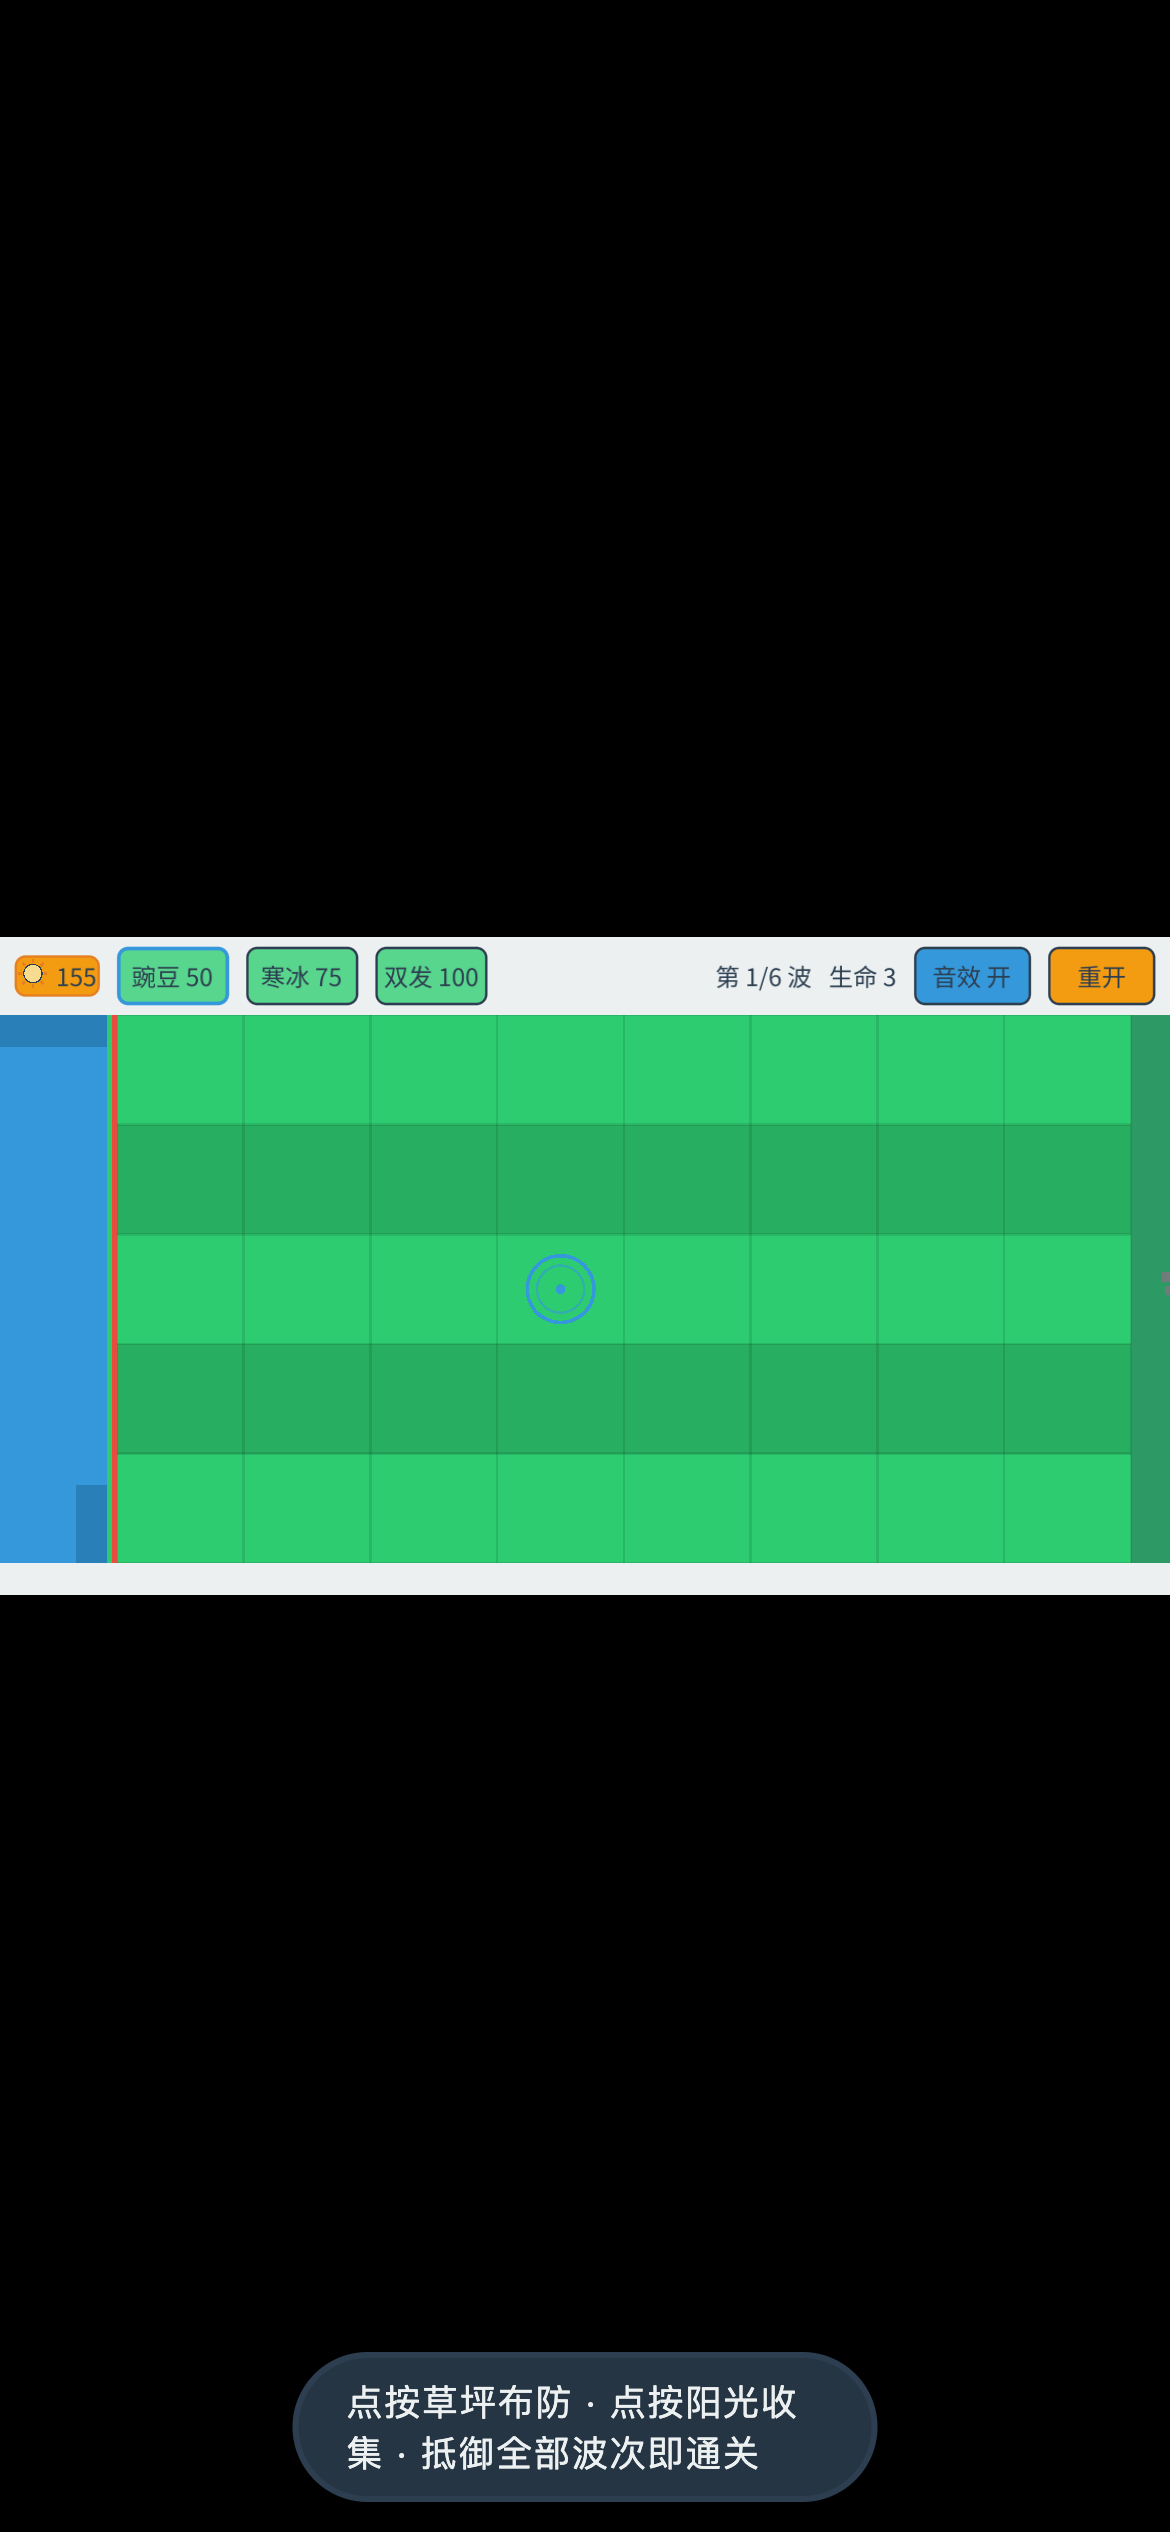
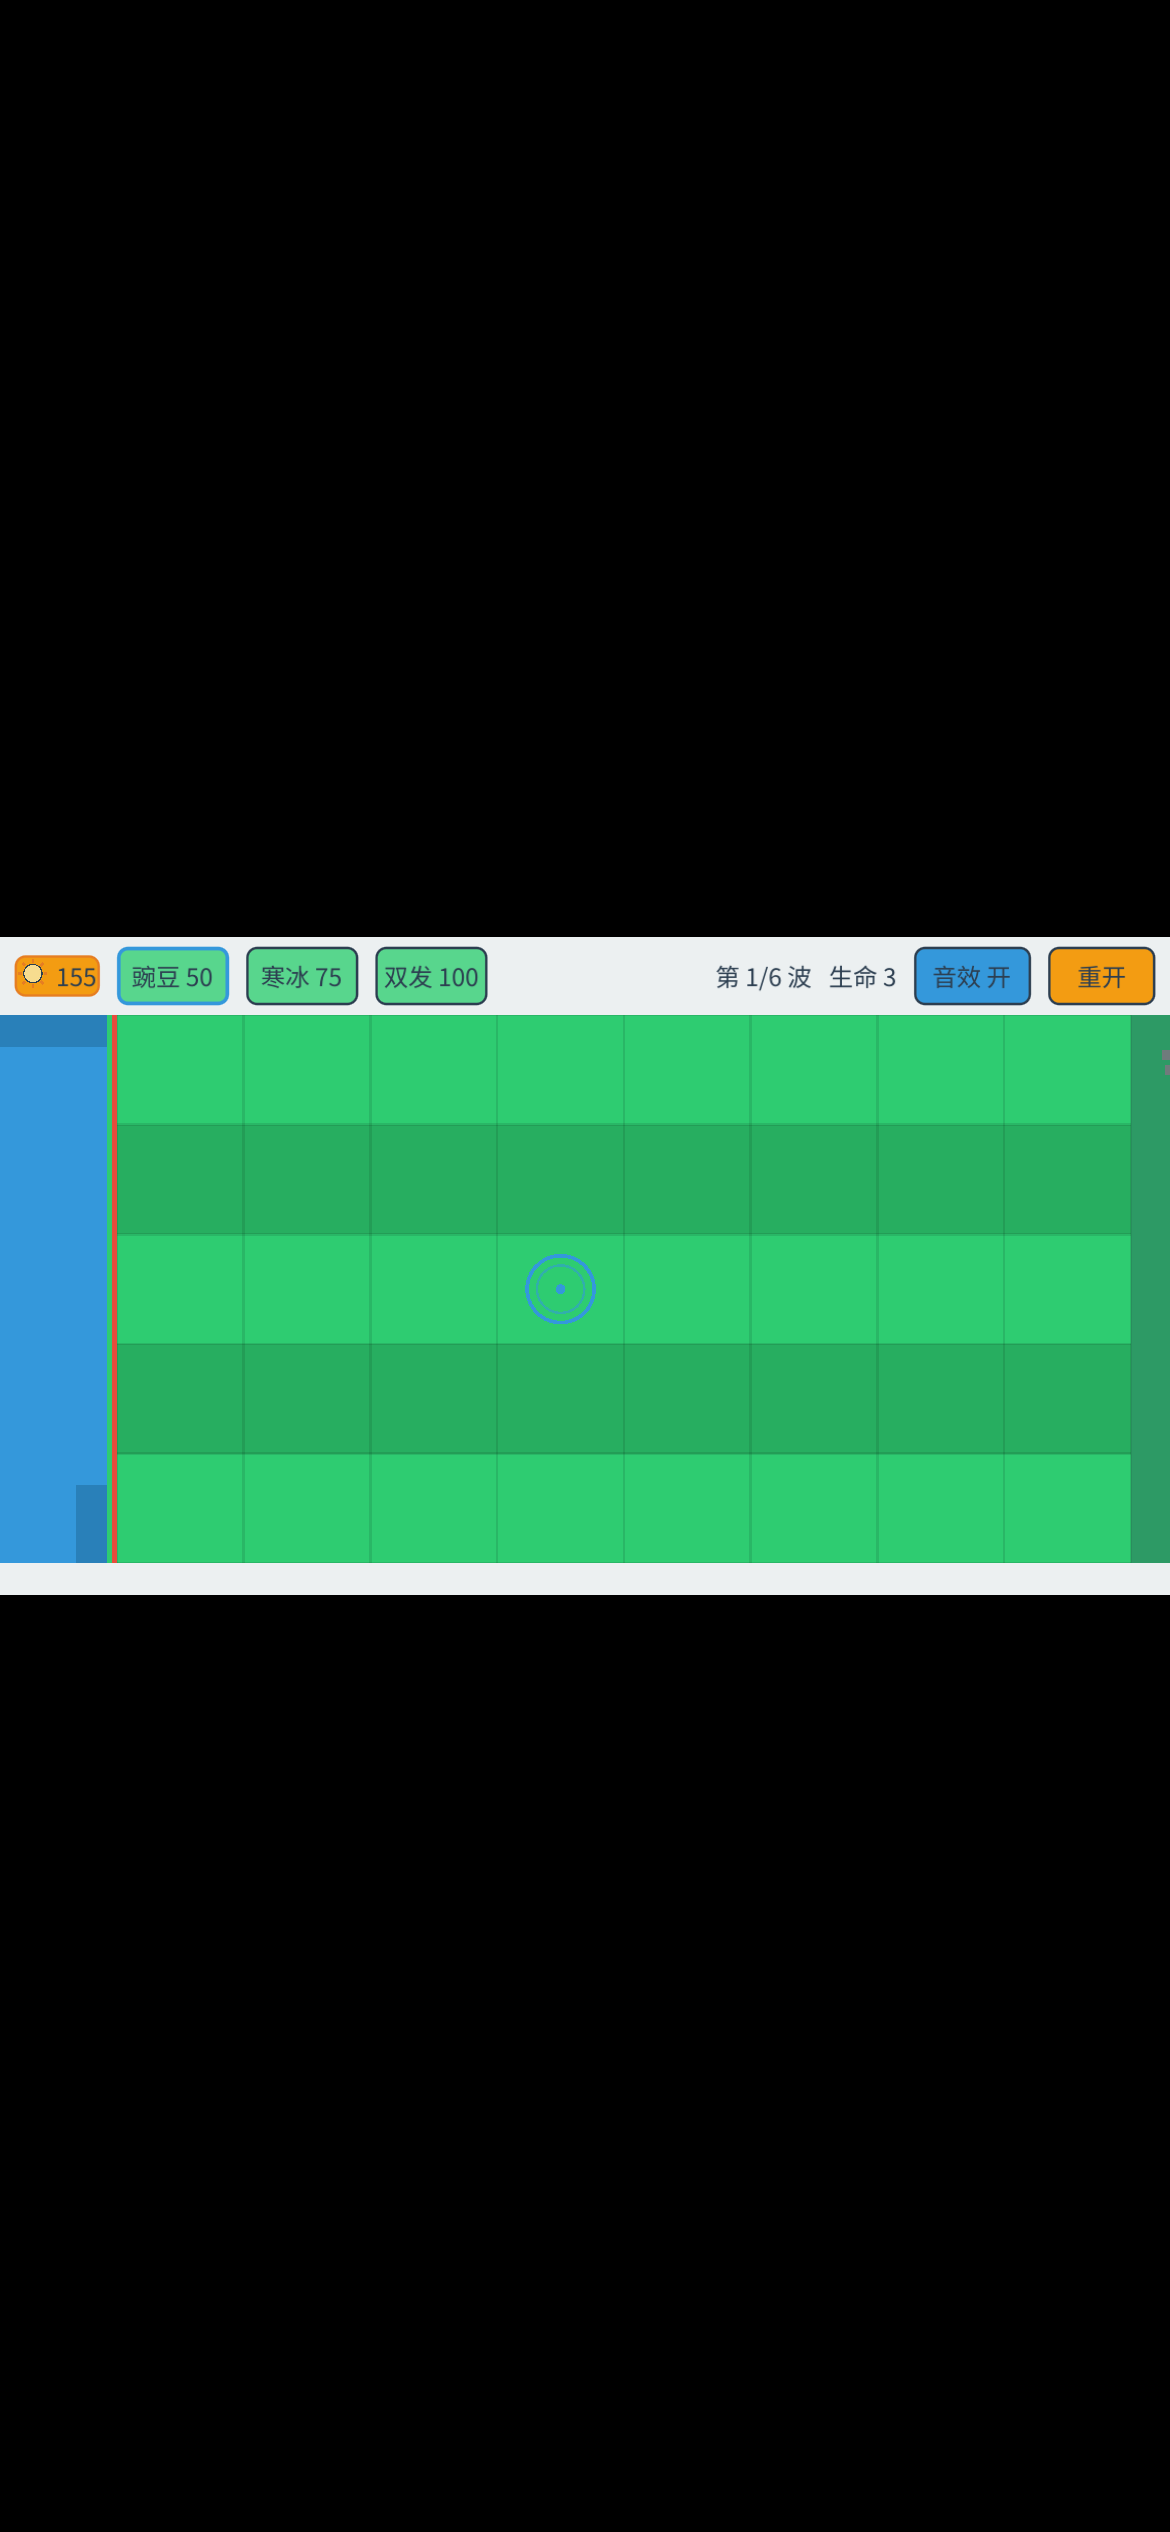
fix(touch): eval 布尔返回的 int/bool 比较运行时错误修复（v4 线上实证的隐性缺陷）
- 根因（debug 导出实证）：JavaScriptBridge.eval 的 JS 布尔返回落成 int(0/1)，
  GDScript 禁止 int 与 bool 直接 != 比较 —— _detect_touch_preferred 运行时报
  「Invalid operands 'int' and 'bool'」，release 导出静默成 null，
  触屏措辞永久回退键盘文案（模板既有隐性缺陷，随触屏提示切换暴露）
- 修复：按返回形态归一（bool 直取 / int·float >0.5 / String=='true' /
  null·未知 fail-open 按触屏），与硬约束「触屏优先、判定 fail-open」一致
- 新增 window.__INPUT_PROFILE__ 观测钩子：门禁与现场诊断可直读引擎侧
  最终判定 + 各原始信号（ontouchstart/maxTouchPoints/coarse/uaTouch）
- debug+release 双导出实测：触屏仿真 touch=true / 桌面 touch=false，
  双环境 console 零错误；四门禁复跑全绿

Changed region(s): [[0.2462, 0.9048, 0.7692, 0.9984]]

diff --git a/games/myrdplaygrou/export/web/index.html b/games/myrdplaygrou/export/web/index.html
@@ -191,7 +191,7 @@ window.__GAME_TUNING__ = (function () {
 
 		<script src="index.js"></script>
 		<script>
-const GODOT_CONFIG = {"args":[],"canvasResizePolicy":2,"ensureCrossOriginIsolationHeaders":false,"executable":"index","experimentalVK":false,"fileSizes":{"index.pck":3886128,"index.wasm":35376909},"focusCanvas":true,"gdextensionLibs":[]};
+const GODOT_CONFIG = {"args":[],"canvasResizePolicy":2,"ensureCrossOriginIsolationHeaders":false,"executable":"index","experimentalVK":false,"fileSizes":{"index.pck":3886832,"index.wasm":35376909},"focusCanvas":true,"gdextensionLibs":[]};
 const GODOT_THREADS_ENABLED = false;
 const engine = new Engine(GODOT_CONFIG);
 
